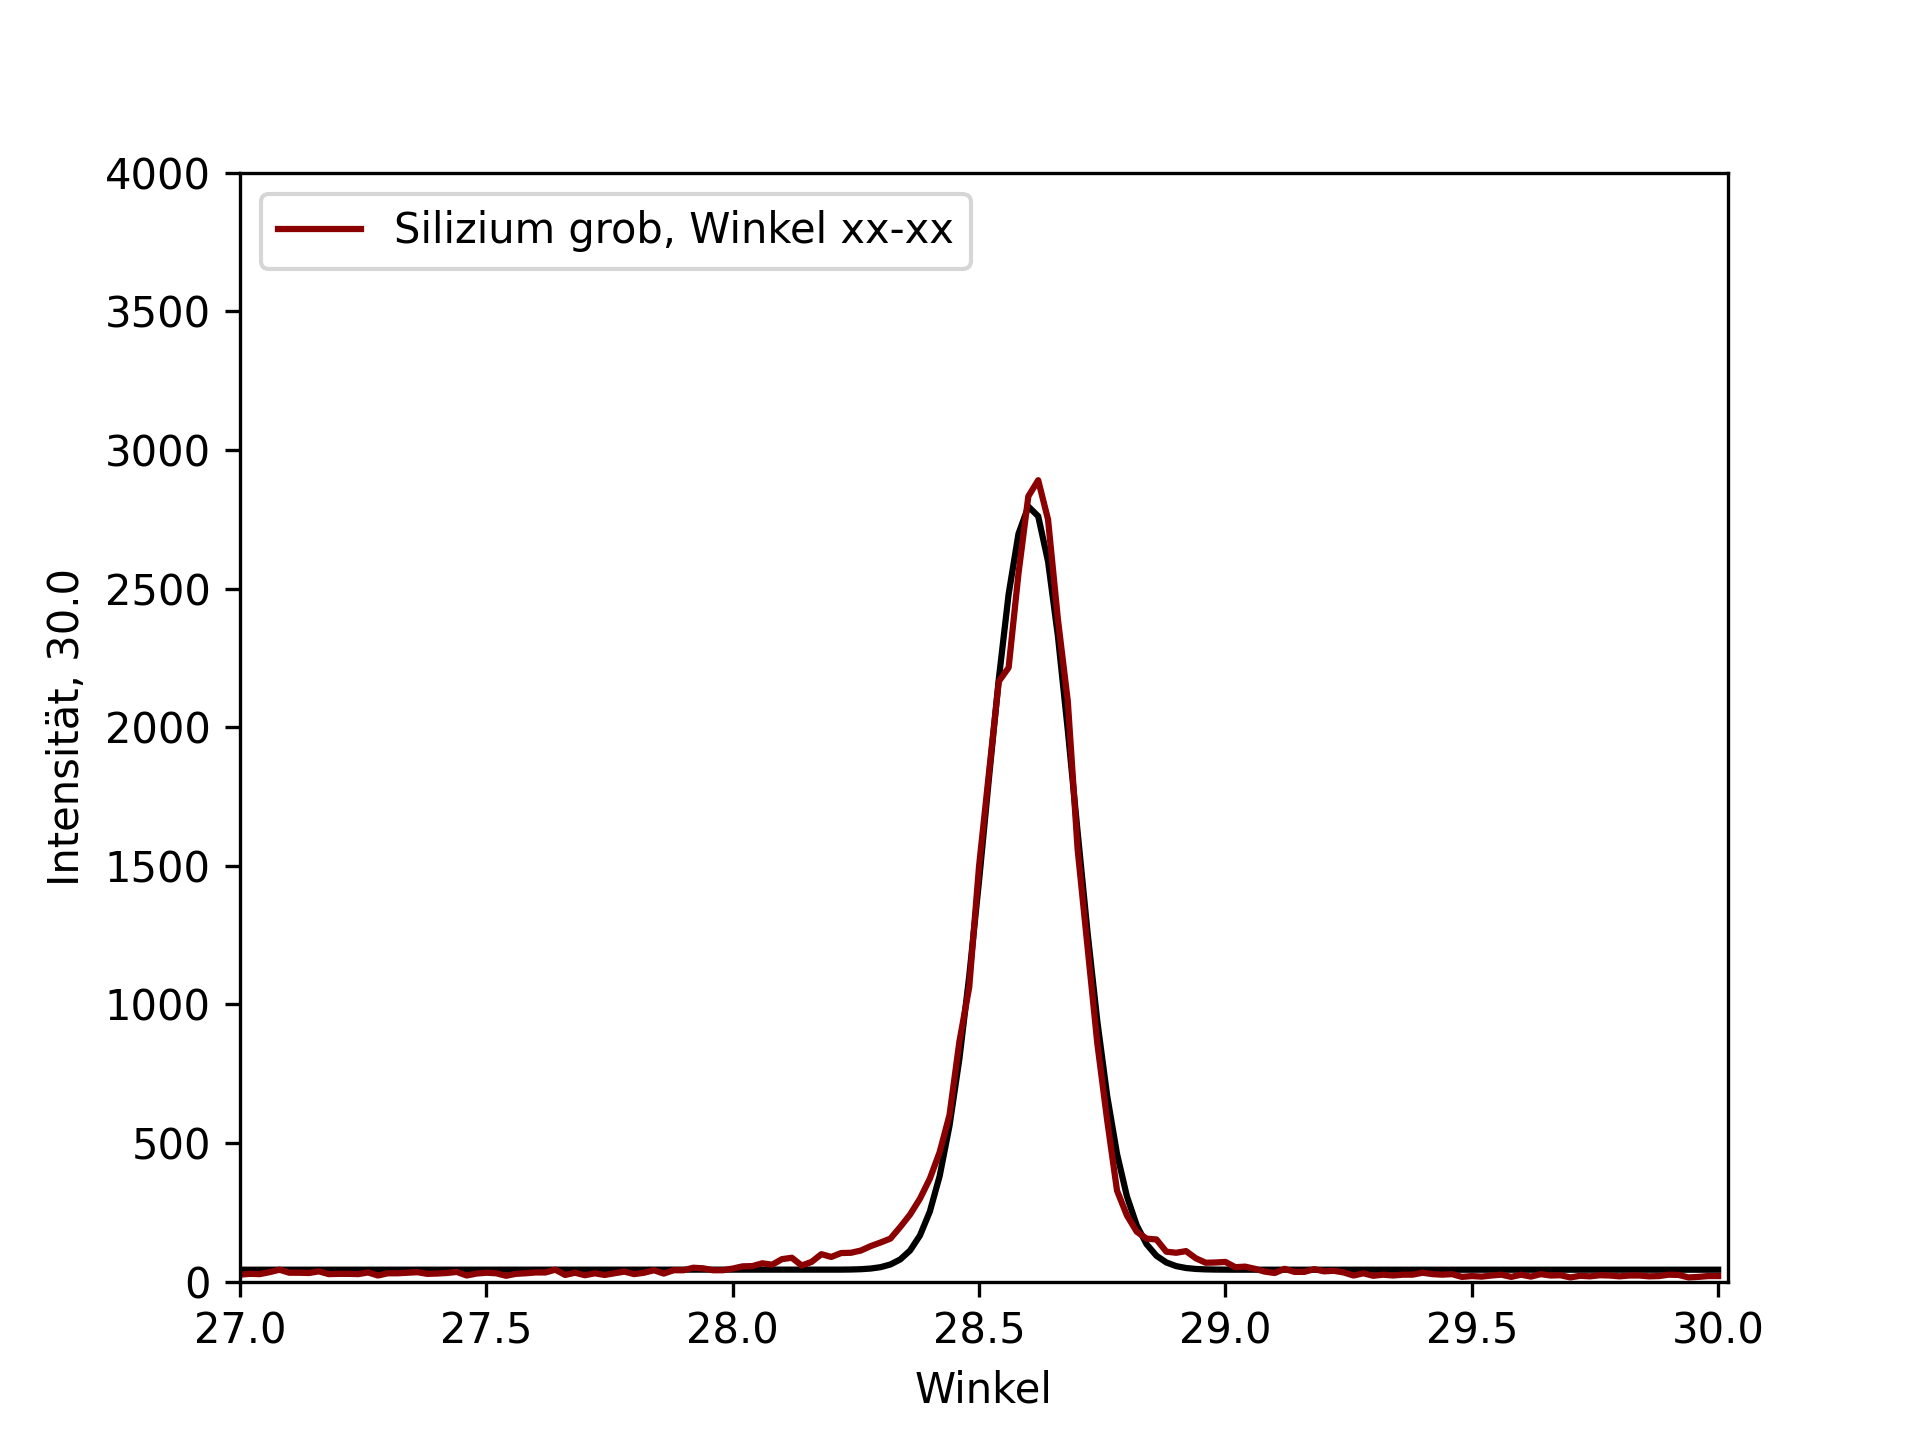
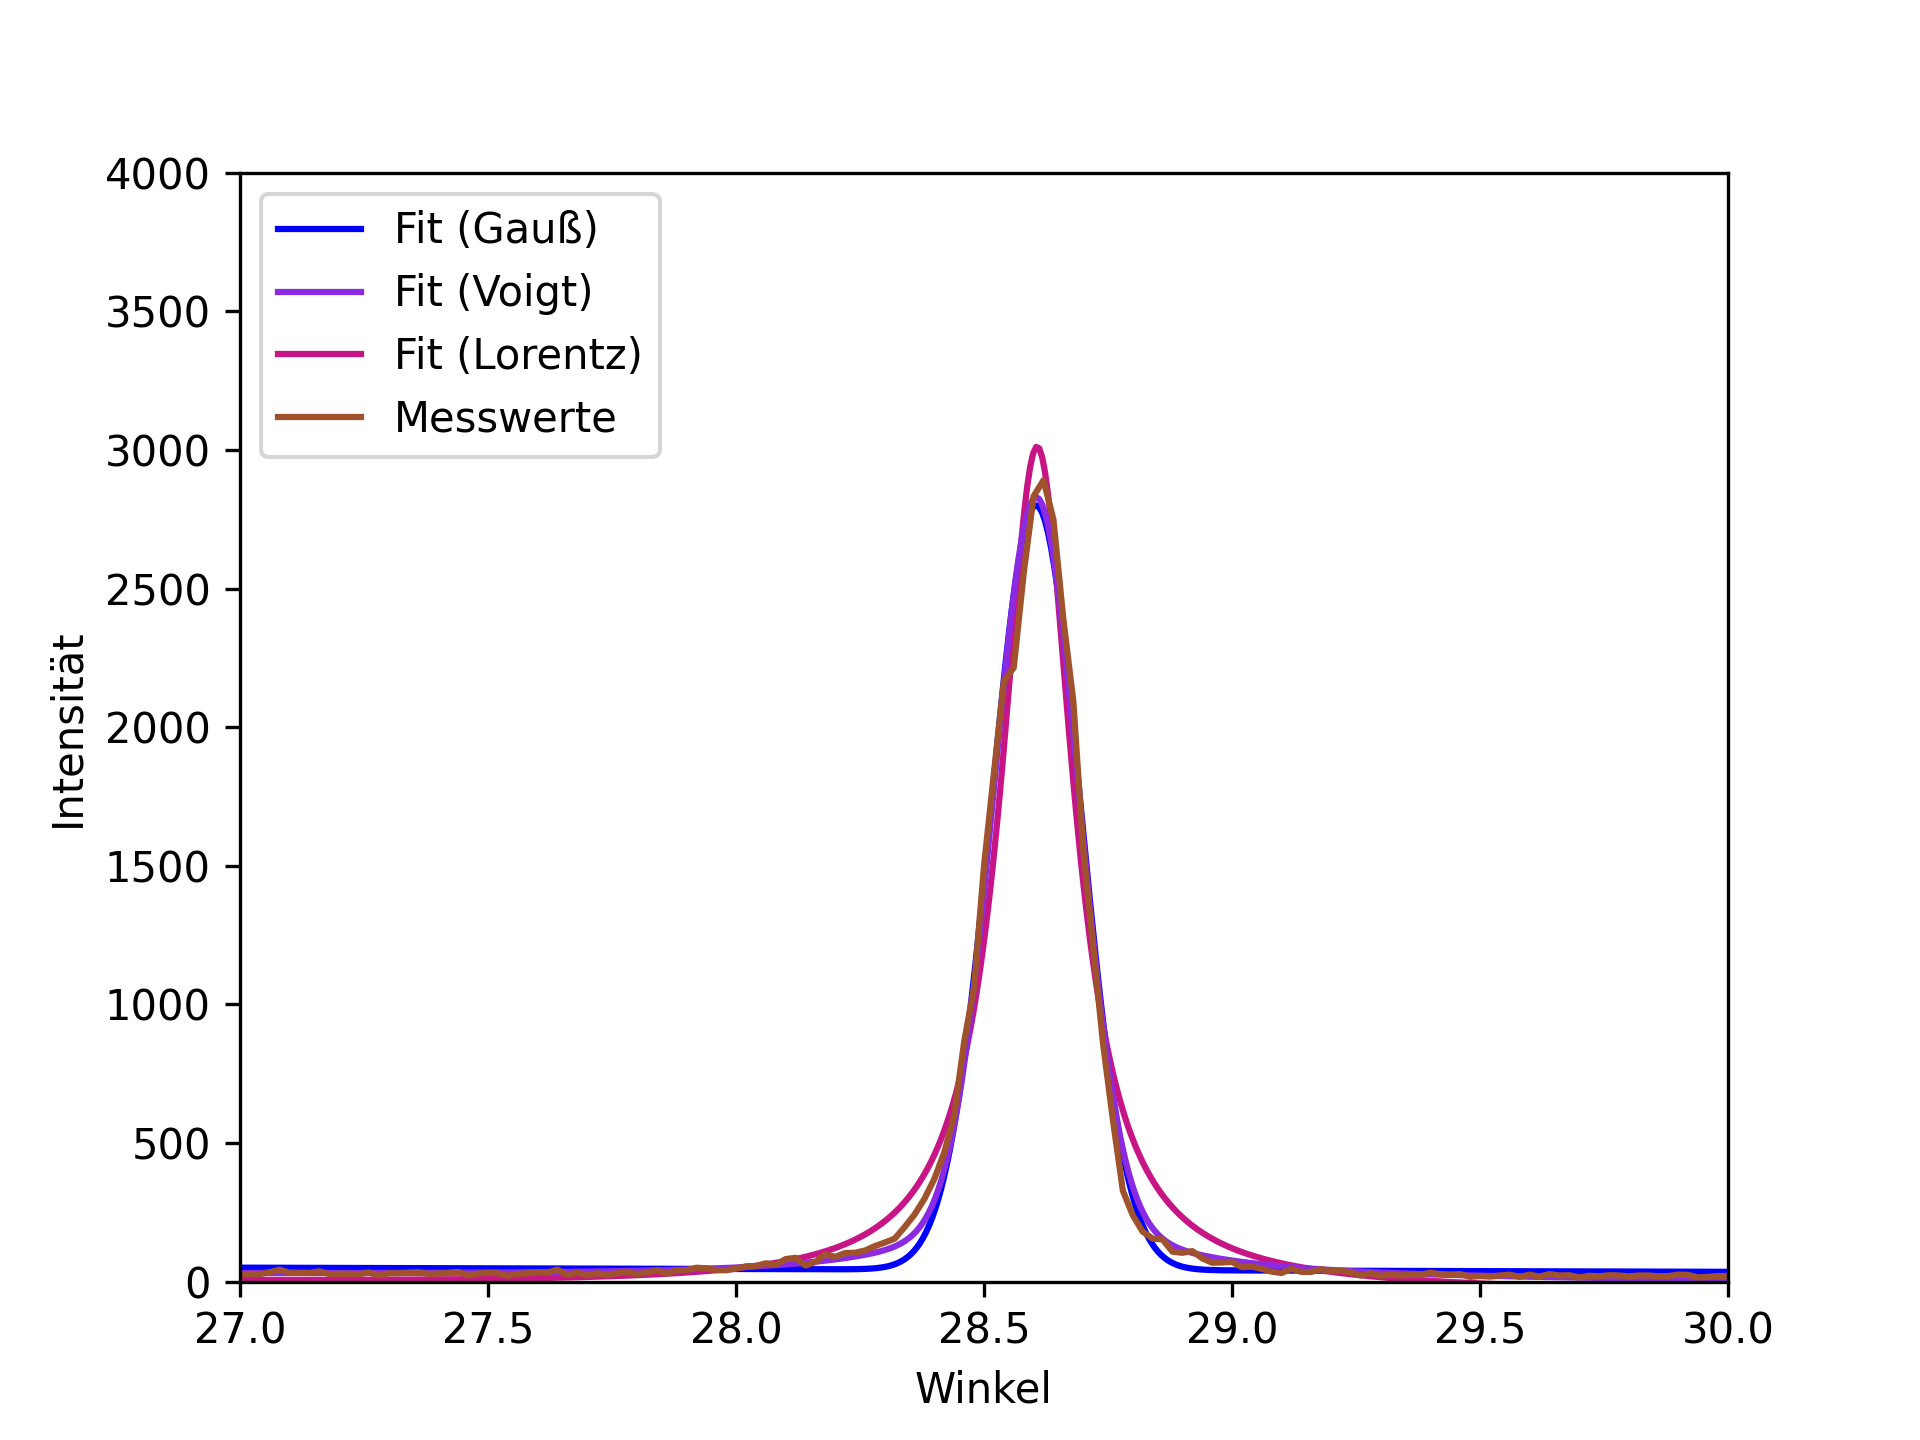
Lorentz und Voigt added

diff --git a/Röntgen/auswertung.py b/Röntgen/auswertung.py
@@ -3,6 +3,7 @@ from scipy.optimize import curve_fit
 from scipy.stats.distributions import  t
 import numpy as np
 import math
+from sklearn.metrics import r2_score
 
 from InputOutput import readRawData
 
@@ -11,10 +12,10 @@ messreihen = []	#  file name                  	color	      	label											calc
 messreihen.append(["221109_Sifein_Peak1.txt", 	"darkgreen",	"Silizium fein, Winkel 27-30 Grad",				True])
 messreihen.append(["221109_Sifein_Peak2.txt", 	"forestgreen",	"Silizium fein, Winkel 46-49 Grad",				True])
 messreihen.append(["221109_Sifein_Peak3.txt", 	"limegreen",	"Silizium fein, Winkel 55-58 Grad",				True])
-messreihen.append(["221109_Sigrob_Peak1.txt", 	"darkred",		"Silizium grob, Winkel xx-xx",					True])
-messreihen.append(["221109_Sigrob_Peak2.txt", 	"firebrick",	"Silizium grob, Winkel xx-xx",					True])
-messreihen.append(["221109_Sigrob_Peak3.txt", 	"indianred",	"Silizium grob, Winkel xx-xx",					True])
-messreihen.append(["221109_unbekanntesSalz.txt","goldenrod", 	"unbekanntes erstes Salz, Winkel 10-120 Grad",	False])
+messreihen.append(["221109_Sigrob_Peak1.txt", 	"sienna",		"Silizium grob, Winkel xx-xx",					True])
+messreihen.append(["221109_Sigrob_Peak2.txt", 	"coral",	"Silizium grob, Winkel xx-xx",					True])
+messreihen.append(["221109_Sigrob_Peak3.txt", 	"orange",	"Silizium grob, Winkel xx-xx",					True])
+# messreihen.append(["221109_unbekanntesSalz.txt","goldenrod", 	"unbekanntes erstes Salz, Winkel 10-120 Grad",	False])
 messreihen.append(["221110_unbekanntesSalz.txt","goldenrod", 	"unbekanntes erstes Salz, Winkel 10-120 Grad",	False])
 
 # Plot all data
@@ -23,142 +24,132 @@ drawPlots = True
 savePlots = True
 first = True
 
-initialGuessGauss = [0, 100, 0.7, 50]
-alpha = 0.10 # 90%-confidence intervals for fit parameters
+initGauss =		[0, 500, 1, 50, 0]
+initLorentz =	[0, 500, 1, 50, 0]
+initVoigt =		[0, 1000, 3, 3, 50, 20, -2]
+param_bounds=([-np.inf,-np.inf,0,0,-30,-np.inf,-np.inf],[np.inf,np.inf,np.inf,np.inf,100,np.inf,np.inf]) # limit eta of voigt between 0 and 1
 
 # fit curves
 
-def gaussian(x, x_0, stretch, a, offset):
-    'nonlinear function in a and b to fit to data'
-    return (offset + stretch * math.e ** (- a * (x - x_0) ** 2))
+def gaussian(x, x_0, amplitude, fwhm, noiseOffset, noiseSlope):
+	sigma = fwhm / (2 * math.sqrt(2 * math.log(2)))
+	noise = noiseOffset + (x - x_0) * noiseSlope
+	gauss = math.e ** (- 4 * math.log(2) * ((x - x_0) ** 2)/(sigma ** 2))
+	return amplitude * gauss + noise
+	
+def lorentzian(x, x_0, amplitude, fwhm, noiseOffset, noiseSlope):
+	gamma = abs(fwhm) / 2
+	noise = noiseOffset + (x - x_0) * noiseSlope
+	lorentz = (gamma ** 2) / ((x - x_0) ** 2 + gamma ** 2)
+	return amplitude * lorentz + noise
+
+def pseudo_voigt(x, x_0, amplitude, fwhm_gauss, fwhm_lorentz, eta, noiseOffset, noiseSlope):
+	eta = max(min(eta/100, 1), 0)
+	noise = noiseOffset + (x - x_0) * noiseSlope
+	gauss = gaussian(x, x_0, 1 - eta, fwhm_gauss, 0, 0)
+	lorentz = lorentzian(x, x_0, eta, fwhm_lorentz, 0, 0)
+	return amplitude * (eta * lorentz + (1 - eta) * gauss) + noise
 
 for filename, color, label, calcPeak in messreihen:
 	# read in data
 	datapoints = readRawData(filename)
 	[minX, minY] = [min(l) for l in zip(*datapoints)]
 	[maxX, maxY] = [max(l) for l in zip(*datapoints)]
+	# delete 0 values at beginning
+	while 0 < len(datapoints):
+		if (datapoints[0][1] == 0):
+			datapoints.pop(0)
+		else:
+			break
+	angles 		= [row[0] for row in datapoints]
+	intensities = [row[1] for row in datapoints]
 	
 	if (calcPeak):
 		# fit peak curves
-		initialGuessGauss[0] = (maxX + minX) / 2
-		angles 		= [row[0] for row in datapoints]
-		intensities = [row[1] for row in datapoints]
-		par, pcov = curve_fit(gaussian, np.array(angles), np.array(intensities), p0=initialGuessGauss)
-		parStDev = np.sqrt(np.diag(pcov))
-		print(f" --- Fit for {label} ---")
-		print(f"x_0 	{par[0]} +- {parStDev[0]}")
-		print(f"stretch {par[1]} +- {parStDev[1]}")
-		print(f"a 		{par[2]} +- {parStDev[2]}")
-		print(f"offset 	{par[3]} +- {parStDev[3]}")
+		angles = np.array(angles)
+		intensities = np.array(intensities)
+		initGauss[0] = initLorentz[0] = initVoigt[0] = (maxX + minX) / 2 # set x_0 at the middle
 		
-		calcInt = [gaussian(angle, par[0], par[1], par[2], par[3]) for angle in angles]
-		plot.plot(angles, calcInt, color="black")
+		parG, pcovG = curve_fit(gaussian,     angles, intensities, p0=initGauss)
+		parL, pcovL = curve_fit(lorentzian,   angles, intensities, p0=initLorentz)
+		parL[2] = abs(parL[2])
+		
+		initVoigt[0] = (parG[0] + parL[0])/2
+		initVoigt[1] = (parG[1] + parL[1])/2
+		initVoigt[2] = parG[2]
+		initVoigt[3] = parL[2]
+		initVoigt[5] = (parG[3] + parL[3])/2
+		initVoigt[6] = (parG[4] + parL[4])/2
+		parV, pcovV = curve_fit(pseudo_voigt, angles, intensities, p0=initVoigt, bounds=param_bounds)
+			# vSuccess = True
+		# except Exception as inst:
+			# print(type(inst))    # the exception instance
+			# print(inst.args)     # arguments stored in .args
+			# print(inst)
+			# vSuccess = False
+		parStDevG = np.sqrt(np.diag(pcovG))
+		parStDevL = np.sqrt(np.diag(pcovL))
+		parStDevV = np.sqrt(np.diag(pcovV))
+		
+		# calc R²
+		calcIntG = [gaussian    (angle, parG[0], parG[1], parG[2], parG[3], parG[4]) for angle in angles]
+		calcIntL = [lorentzian  (angle, parL[0], parL[1], parL[2], parL[3], parL[4]) for angle in angles]
+		calcIntV = [pseudo_voigt(angle, parV[0], parV[1], parV[2], parV[3], parV[4], parV[5], parV[6]) for angle in angles]
+		rSquaredG = r2_score(intensities, calcIntG)
+		rSquaredL = r2_score(intensities, calcIntL)
+		rSquaredV = r2_score(intensities, calcIntV)
+		
+		# print fit parameters
+		print(f" --- Gauss Fit for {label} ---")
+		print(f"x_0 		{round(parG[0], 3)}    +-    {round(parStDevG[0], 3)}")
+		print(f"amplitude	{round(parG[1], 3)}    +-    {round(parStDevG[1], 3)}")
+		print(f"fwhm 		{round(parG[2], 3)}    +-    {round(parStDevG[2], 3)}")
+		print(f"noise offset 	{round(parG[3], 3)}    +-    {round(parStDevG[3], 3)}")
+		print(f"noise slope 	{round(parG[4], 3)}    +-    {round(parStDevG[4], 3)}")
+		print(f"R² 		{round(rSquaredG, 4)}\r\n")
+		
+		print(f" --- Lorentz Fit for {label} ---")
+		print(f"x_0 		{round(parL[0], 3)}    +-    {round(parStDevL[0], 3)}")
+		print(f"amplitude	{round(parL[1], 3)}    +-    {round(parStDevL[1], 3)}")
+		print(f"fwhm 		{round(parL[2], 3)}    +-    {round(parStDevL[2], 3)}")
+		print(f"noise offset 	{round(parL[3], 3)}    +-    {round(parStDevL[3], 3)}")
+		print(f"noise slope 	{round(parL[4], 3)}    +-    {round(parStDevL[4], 3)}")
+		print(f"R² 		{round(rSquaredL, 4)}\r\n")
+		
+		print(f" --- Voigt Fit for {label} ---")
+		print(f"x_0 		{round(parV[0], 3)}    +-    {round(parStDevV[0], 3)}")
+		print(f"amplitude	{round(parV[1], 3)}    +-    {round(parStDevV[1], 3)}")
+		print(f"fwhm_gauss 	{round(parV[2], 3)}    +-    {round(parStDevV[2], 3)}")
+		print(f"fwhm_lorentz 	{round(parV[3], 3)}    +-    {round(parStDevV[3], 3)}")
+		print(f"eta 		{round((parV[4]/100), 3)}    +-    {round((parStDevV[4]/100), 3)}")
+		print(f"noise offset 	{round(parV[5], 3)}    +-    {round(parStDevV[5], 3)}")
+		print(f"noise slope 	{round(parV[6], 3)}    +-    {round(parStDevV[6], 3)}")
+		print(f"R² 		{round(rSquaredV, 4)}\r\n\r\n\r\n")
+		
+		
+		# simulate fit values for the plot
+		calcAngles = np.linspace(minX, maxX, 500)
+		calcIntG = [gaussian(angle, parG[0], parG[1], parG[2], parG[3], parG[4]) for angle in calcAngles]
+		calcIntL = [lorentzian(angle, parL[0], parL[1], parL[2], parL[3], parL[4]) for angle in calcAngles]
+		calcIntV = [pseudo_voigt(angle, parV[0], parV[1], parV[2], parV[3], parV[4], parV[5], parV[6]) for angle in calcAngles]
+		
+		plot.plot(calcAngles, calcIntG, zorder=.3, color="blue",       	label=f"Fit (Gauß)") #  - $   R^2={round(rSquaredG, 4)}$
+		plot.plot(calcAngles, calcIntV, zorder=.7, color="blueviolet", 	label=f"Fit (Voigt)")
+		plot.plot(calcAngles, calcIntL, zorder=.5, color="mediumvioletred",label=f"Fit (Lorentz)")
 	
 	# plot data
-	plot.plot(angles, intensities, label = label, color = color)
-	maxY = (1.1 * maxY) + (-maxY * 1.1) % (10 ** math.floor(math.log10(maxY * 0.5)))
-	plot.axis([minX, maxX+0.02, 0, maxY])
+	plot.plot(angles, intensities, label = "Messwerte", color = color)
+	minX = minX - (+minX % 0.5)
+	maxX = maxX + (-maxX % 0.5)
+	maxY = (1.2 * maxY) + (-maxY * 1.2) % (10 ** math.floor(math.log10(maxY * 0.4)))
+	plot.axis([minX, maxX, 0, maxY])
 	plot.legend(loc="upper left")
 	plot.xlabel("Winkel")
-	plot.ylabel(f"Intensität, {maxX}")
+	plot.ylabel(f"Intensität")
 	if (savePlots):
 		plot.savefig("Abbildungen/" + filename.replace(".txt", ".png"), dpi=300, transparent = True)
 	if(first or drawPlots):
 		plot.show()
 		first = False
-		
-
-
-# datapointsSifein1	 = readRawData("221109_Sifein_Peak1.txt")
-# datapointsSifein2	 = readRawData("221109_Sifein_Peak2.txt")
-# datapointsSifein3	 = readRawData("221109_Sifein_Peak3.txt")
-# datapointsSigrob1	 = readRawData("221109_Sigrob_Peak1.txt")
-# datapointsSigrob2	 = readRawData("221109_Sigrob_Peak2.txt")
-# datapointsSigrob3	 = readRawData("221109_Sigrob_Peak3.txt")
-# datapointsUnbekannt1 = readRawData("221109_unbekanntesSalz.txt")
-# datapointsUnbekannt2 = readRawData("221110_unbekanntesSalz.txt")
-# messreihen = [datapointsSifein1, datapointsSifein2, datapointsSifein3, datapointsSigrob1, datapointsSigrob2, datapointsSigrob3, datapointsUnbekannt1, datpointsUnbekannt2]
-# colors = ["darkgreen", "forestgreen", "limegreen", "darkred", "firebrick", "indianred", "goldenrod", "darkgoldenrod"]
-# labels = ["Silizium fein, Winkel 27-30 Grad", "Silizium fein, Winkel 46-49 Grad", "Silizium fein, Winkel 55-58", "Silizium grob, Winkel xx-xx", "Silizium grob, Winkel xx-xx", "Silizium grob, Winkel xx-xx", 'unbekanntes erstes Salz, Winkel 10-120 Grad', 'unbekanntes erstes Salz, Winkel 10-120 Grad']
-
-# dp = datapointsSifein1
-# plot.plot(*zip(*dp), label='Silizium fein, Winkel 27-30 Grad', color = "darkgreen")
-# [minX, minY] = [min(l) for l in zip(*dp)]
-# [maxX, maxY] = [max(l) for l in zip(*dp)]
-# maxY = maxY + (-maxY) % 100 if maxY < 100 else maxY + (-maxY) % 100
-# plot.axis([minX, maxX, 0, maxY])
-# plot.legend(loc="upper left")
-# plot.xlabel("Winkel")
-# plot.ylabel("Intensität")
-# if (savePlots):
-	# plot.savefig("transparenteKalibrierung", transparent = True)
-# if(True):
-	# plot.show()
-
-# dp = datapointsSifein2
-# plot.plot(*zip(*datapointsSifein2), label='Silizium fein, Winkel 46-49 Grad', color = "forestgreen")
-# plot.legend(loc="upper left")
-# plot.xlabel("Winkel")
-# plot.ylabel("Intensität")
-# if (savePlots):
-	# plot.savefig("transparenteKalibrierung", transparent = True)
-# if(drawPlots):
-	# plot.show()
-
-# dp = datapointsSifein3
-# plot.plot(*zip(*datapointsSifein3), label='Silizium fein, Winkel 55-58 Grad', color = "limegreen")
-# plot.legend(loc="upper left")
-# plot.xlabel("Winkel")
-# plot.ylabel("Intensität")
-# if (savePlots):
-	# plot.savefig("transparenteKalibrierung", transparent = True)
-# if(drawPlots):
-	# plot.show()
-
-# plot.plot(*zip(*datapointsSigrob1), label='Silizium grob, Winkel 55-58 Grad', color = "darkred")
-# plot.legend(loc="upper left")
-# plot.xlabel("Winkel")
-# plot.ylabel("Intensität")
-# if (savePlots):
-	# plot.savefig("transparenteKalibrierung", transparent = True)
-# if(drawPlots):
-	# plot.show()
-
-# plot.plot(*zip(*datapointsSigrob2), label='Silizium grob, Winkel 55-58 Grad', color = "firebrick")
-# plot.legend(loc="upper left")
-# plot.xlabel("Winkel")
-# plot.ylabel("Intensität")
-# if (savePlots):
-	# plot.savefig("transparenteKalibrierung", transparent = True)
-# if(drawPlots):
-	# plot.show()
-
-# dp = datapointsSigrob3
-# plot.plot(*zip(*datapointsSigrob3), label='Silizium grob, Winkel 55-58 Grad', color = "indianred")
-# plot.legend(loc="upper left")
-# plot.xlabel("Winkel")
-# plot.ylabel("Intensität")
-# if (savePlots):
-	# plot.savefig("transparenteKalibrierung", transparent = True)
-# if(drawPlots):
-	# plot.show()
-
-# dp = datapointsUnbekannt1
-# plot.plot(*zip(*datapointsUnbekannt1), label='unbekanntes erstes Salz, Winkel 10-120 Grad', color = "goldenrod")
-# plot.legend(loc="upper left")
-# plot.xlabel("Winkel")
-# plot.ylabel("Intensität")
-# if (savePlots):
-	# plot.savefig("transparenteKalibrierung", transparent = True)
-# if(drawPlots):
-	# plot.show()
-
-# dp = datapointsUnbekannt2
-# plot.plot(*zip(*datapointsUnbekannt2), label='unbekanntes zweites Salz, Winkel 10-120 Grad', color = "darkgoldenrod")
-# plot.legend(loc="upper left")
-# plot.xlabel("Winkel")
-# plot.ylabel("Intensität")
-# if (savePlots):
-	# plot.savefig("transparenteKalibrierung", transparent = True)
-# if(drawPlots):
-	# plot.show()
+	if (not (savePlots or drawPlots)):
+		break
